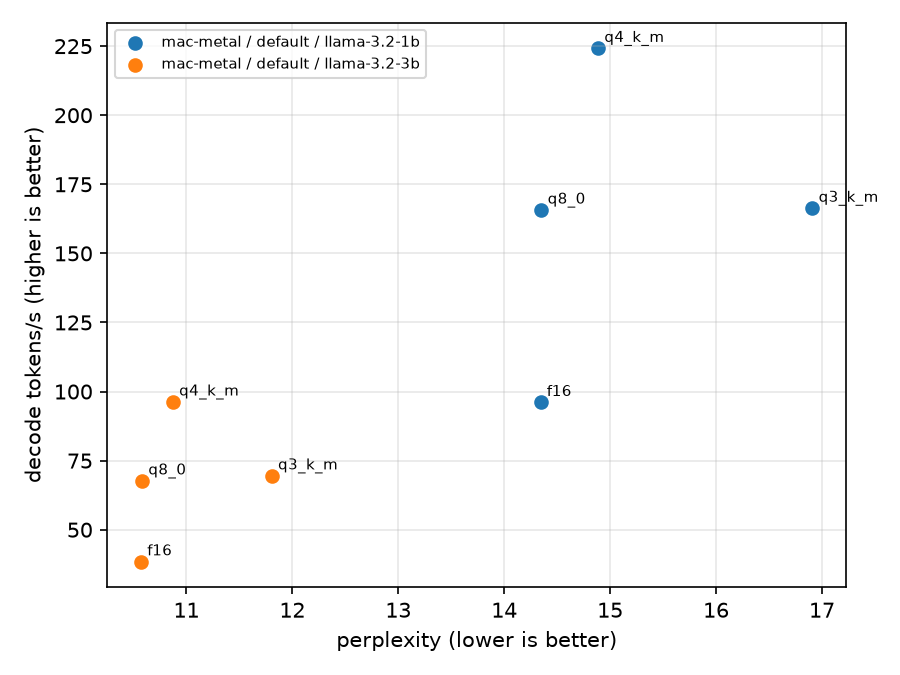
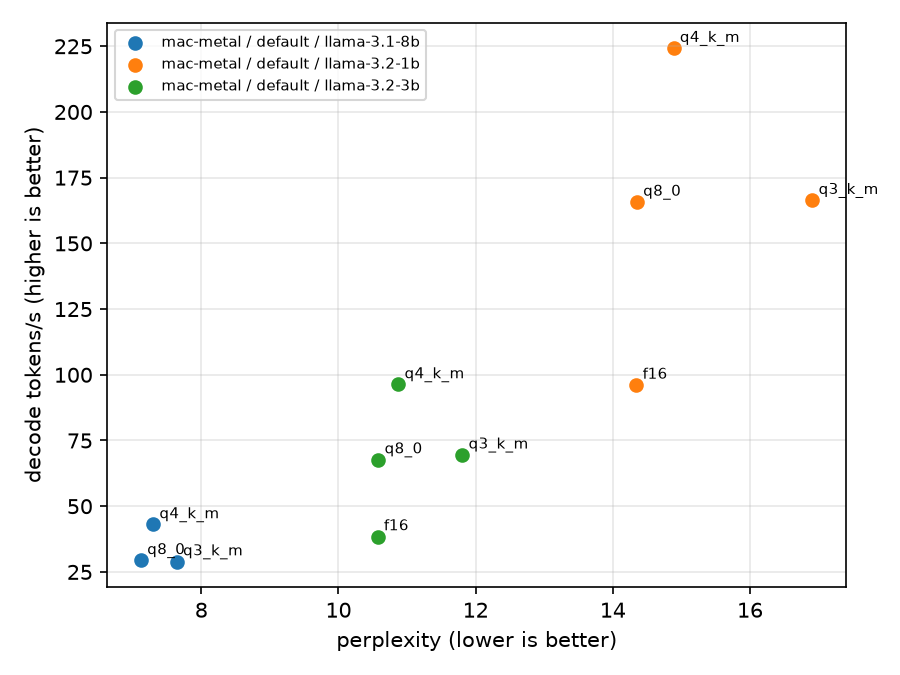
Add Llama-3.1-8B results (pre-made imatrix quants)

diff --git a/report/results.md b/report/results.md
@@ -1,5 +1,8 @@
 | Device | Power mode | Model | Quant | Size (GB) | Prefill t/s | Decode t/s | Mean W | J/token* | PPL |
 |---|---|---|---|---|---|---|---|---|---|
+| mac-metal | default | llama-3.1-8b | q8_0 | 8.53 | 378.6 | 29.4 | 32.89 | 1.119 | 7.12 |
+| mac-metal | default | llama-3.1-8b | q4_k_m | 4.91 | 363.7 | 43.0 | 31.39 | 0.729 | 7.30 |
+| mac-metal | default | llama-3.1-8b | q3_k_m | 4.01 | 341.8 | 28.9 | 35.23 | 1.218 | 7.64 |
 | mac-metal | default | llama-3.2-1b | f16 | 2.47 | 2847.2 | 96.1 | 28.35 | 0.295 | 14.34 |
 | mac-metal | default | llama-3.2-1b | q8_0 | 1.31 | 2717.1 | 165.7 | 32.16 | 0.194 | 14.35 |
 | mac-metal | default | llama-3.2-1b | q4_k_m | 0.80 | 2603.3 | 224.3 | 29.98 | 0.134 | 14.89 |
